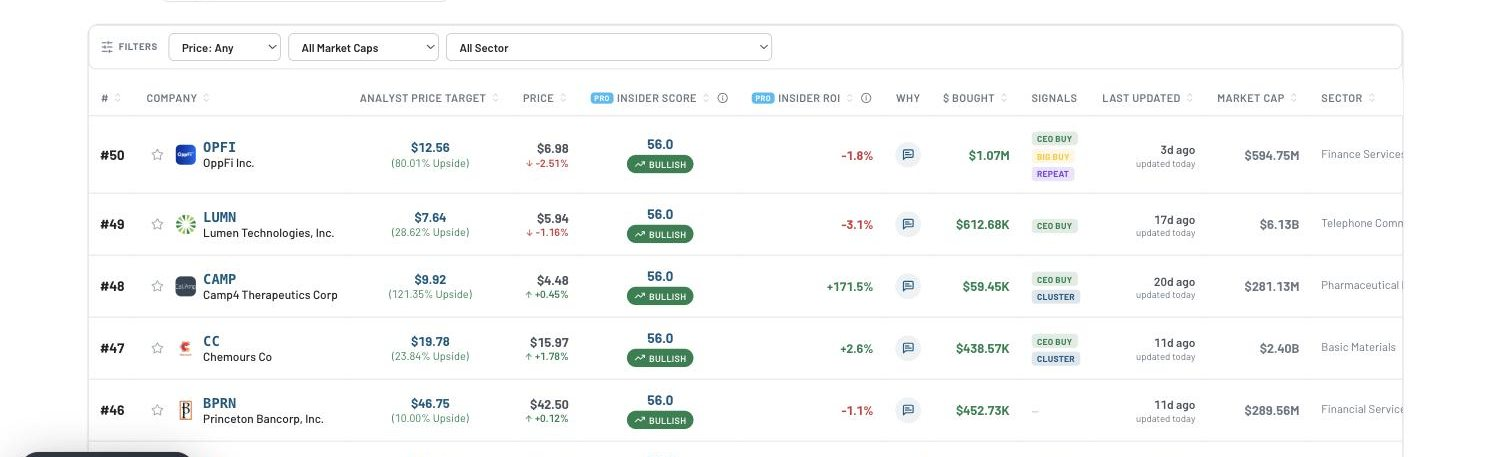
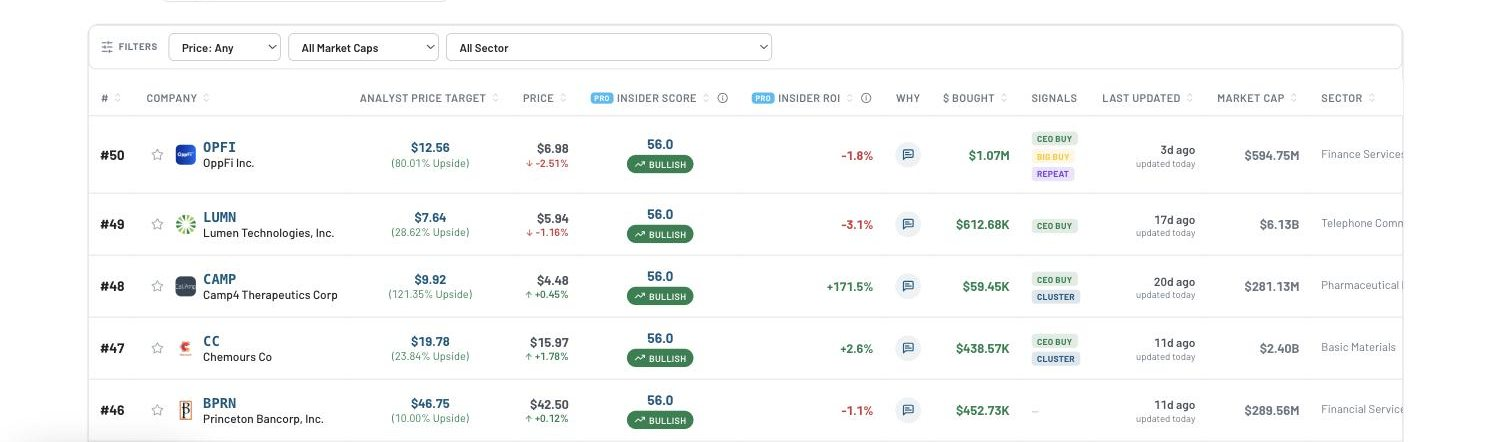
Sales draft: 4 mini product shots replace tool pills; brand-colour accents per theme; cleaner scores crop
Tools section is now Stock profiles / Insider rankings / Breaking news /
Insider profiles cards with real screenshots. CTA, hero accent line, stat
numbers and badges use the navbar brand colour (#005882 light, #20d0ff
dark). Scores bento image recropped above the locked rows.

diff --git a/frontend/app/premium-preview/page.tsx b/frontend/app/premium-preview/page.tsx
@@ -155,13 +155,10 @@ const NUMBERS = [
 ];
 
 const TOOLS = [
-  { label: "Market Heatmaps", href: "/heatmaps/market" },
-  { label: "Top Insider Scores", href: "/insiders/hot" },
-  { label: "Earnings Calendar", href: "/earnings" },
-  { label: "Watchlists", href: "/watchlist" },
-  { label: "IPO Tracker", href: "/ipos" },
-  { label: "Short Interest", href: "/short-interest" },
-  { label: "Dividends", href: "/dividends" },
+  { label: "Stock profiles", blurb: "Price, fundamentals and the full insider record on every ticker.", img: "/sales/mini-stock.jpg", href: "/companies/AAPL" },
+  { label: "Insider rankings", blurb: "Every filer ranked by buying volume and track-record accuracy.", img: "/sales/mini-rankings.jpg", href: "/insiders" },
+  { label: "Breaking news", blurb: "Top stories and market-moving coverage, updated all day.", img: "/sales/mini-news.jpg", href: "/insights" },
+  { label: "Insider profiles", blurb: "Any insider's history: win rate, best buys, sectors traded.", img: "/sales/mini-profile.jpg", href: "/insiders" },
 ];
 
 const FAQS = [
@@ -393,7 +390,11 @@ export default function PremiumPreviewPage() {
         <div className="biv-tools">
           {TOOLS.map((t) => (
             <Link key={t.label} href={t.href} className="biv-tool">
-              {t.label}
+              <div className="biv-tool-shot">
+                <img src={t.img} alt={t.label} loading="lazy" />
+              </div>
+              <h3>{t.label}</h3>
+              <p>{t.blurb}</p>
             </Link>
           ))}
         </div>
@@ -435,6 +436,10 @@ const CSS = `
   --ink: #F5F7FA; --dim: #9DB0C7; --faint: #5D7189;
   --bg: #0A1220; --bg2: #0E1A2E; --line: rgba(157,176,199,0.14);
   --green: #3E9B5F; --green-hi: #4CC38A;
+  /* Site brand accent — the navbar colour, per theme (globals.css tokens:
+     light --brand-surface #005882, dark --accent #20d0ff). Used for the
+     primary CTA, the hero's final line and the big stat numbers. */
+  --brand: #20d0ff; --brand-ink: #04141c;
   background:
     radial-gradient(1000px 600px at 80% -10%, rgba(62,155,95,0.14), transparent 60%),
     radial-gradient(900px 500px at 10% 30%, rgba(30,64,120,0.25), transparent 60%),
@@ -451,8 +456,8 @@ const CSS = `
   text-transform: uppercase; letter-spacing: -0.015em; line-height: 0.98;
   color: var(--ink); margin: 0;
 }
-.biv-accent { color: var(--green-hi); }
-.biv-accent-text { color: var(--green-hi) !important; }
+.biv-accent { color: var(--brand); }
+.biv-accent-text { color: var(--brand) !important; }
 .biv-dim { color: var(--faint); }
 
 /* hero */
@@ -466,7 +471,7 @@ const CSS = `
   display: inline-block; text-decoration: none; border-radius: 10px;
   font-weight: 700; font-size: 15px; padding: 13px 22px; transition: filter .15s, background .15s;
 }
-.biv-btn-solid { background: var(--green); color: #06131f; }
+.biv-btn-solid { background: var(--brand); color: var(--brand-ink); }
 .biv-btn-solid:hover { filter: brightness(1.1); }
 .biv-btn-ghost { border: 1px solid rgba(157,176,199,0.4); color: var(--ink); }
 .biv-btn-ghost:hover { background: rgba(157,176,199,0.1); }
@@ -604,7 +609,7 @@ const CSS = `
 .biv-mcard-person .biv-mcard-foot span { color: rgba(245,247,250,0.72); }
 .biv-mstat {
   font-family: var(--font-heading), sans-serif; font-weight: 900; font-size: 44px;
-  color: var(--green-hi); letter-spacing: -0.02em;
+  color: var(--brand); letter-spacing: -0.02em;
 }
 .biv-mcap { font-size: 13px; color: var(--dim); line-height: 1.5; margin-top: 6px; }
 
@@ -617,7 +622,7 @@ const CSS = `
 .biv-plan-hot { border-color: rgba(76,195,138,0.55); box-shadow: 0 0 0 1px rgba(76,195,138,0.35), 0 24px 60px rgba(0,0,0,0.35); }
 .biv-plan-badge {
   position: absolute; top: -12px; left: 50%; transform: translateX(-50%);
-  background: var(--green); color: #06131f; font-size: 11.5px; font-weight: 800;
+  background: var(--brand); color: var(--brand-ink); font-size: 11.5px; font-weight: 800;
   letter-spacing: 1px; text-transform: uppercase; border-radius: 999px; padding: 5px 14px;
 }
 .biv-plan h3 { margin: 0; font-size: 18px; font-weight: 700; color: var(--dim); }
@@ -631,18 +636,22 @@ const CSS = `
 /* numbers */
 .biv-numbers { display: grid; grid-template-columns: repeat(4, 1fr); gap: 18px; margin-top: 40px; }
 .biv-num { background: var(--bg2); border: 1px solid var(--line); border-radius: 16px; padding: 26px 22px; }
-.biv-num-big { font-family: var(--font-heading), sans-serif; font-weight: 900; font-size: clamp(34px, 3.4vw, 48px); color: var(--green-hi); letter-spacing: -0.02em; }
+.biv-num-big { font-family: var(--font-heading), sans-serif; font-weight: 900; font-size: clamp(34px, 3.4vw, 48px); color: var(--brand); letter-spacing: -0.02em; }
 .biv-num-cap { font-size: 13.5px; color: var(--dim); line-height: 1.55; margin-top: 10px; }
 .biv-fine.biv-center { text-align: center; margin-top: 22px; }
 
-/* tools */
-.biv-tools { display: flex; flex-wrap: wrap; gap: 12px; justify-content: center; margin-top: 34px; }
+/* tools — four mini product shots */
+.biv-tools { display: grid; grid-template-columns: repeat(4, 1fr); gap: 18px; margin-top: 40px; }
 .biv-tool {
-  border: 1px solid var(--line); border-radius: 999px; padding: 11px 20px;
-  color: var(--ink); text-decoration: none; font-size: 14.5px; font-weight: 600;
-  background: rgba(14,26,46,0.6); transition: border-color .15s, background .15s;
+  border: 1px solid var(--line); border-radius: 16px; padding: 0 0 18px;
+  color: var(--ink); text-decoration: none; background: var(--bg2);
+  overflow: hidden; transition: border-color .15s, transform .15s;
 }
-.biv-tool:hover { border-color: rgba(76,195,138,0.5); background: rgba(76,195,138,0.08); }
+.biv-tool:hover { border-color: var(--brand); transform: translateY(-2px); }
+.biv-tool-shot { height: 150px; overflow: hidden; border-bottom: 1px solid var(--line); background: #fff; }
+.biv-tool-shot img { width: 100%; display: block; object-fit: cover; object-position: top left; }
+.biv-tool h3 { font-size: 16px; font-weight: 700; margin: 15px 16px 5px; }
+.biv-tool p { font-size: 13px; line-height: 1.5; color: var(--dim); margin: 0 16px; }
 
 /* faq */
 .biv-faq { max-width: 760px; margin: 36px auto 0; }
@@ -669,17 +678,22 @@ const CSS = `
     radial-gradient(900px 500px at 10% 30%, rgba(30,64,120,0.08), transparent 60%),
     var(--bg);
 }
-:root[data-theme="light"] .biv-accent, :root[data-theme="light"] .biv-accent-text { color: var(--green) !important; }
+:root[data-theme="light"] .biv { --brand: #005882; --brand-ink: #FFFFFF; }
 :root[data-theme="light"] .biv-btn-ghost { border-color: rgba(14,31,53,0.3); }
 :root[data-theme="light"] .biv-btn-ghost:hover { background: rgba(14,31,53,0.06); }
 :root[data-theme="light"] .biv-firms span { color: rgba(14,31,53,0.72); }
 :root[data-theme="light"] .biv-hero-art img { box-shadow: 0 30px 70px rgba(14,31,53,0.28); }
-:root[data-theme="light"] .biv-mstat, :root[data-theme="light"] .biv-num-big { color: var(--green); }
-:root[data-theme="light"] .biv-plus { background: rgba(62,155,95,0.12); color: var(--green); }
+:root[data-theme="light"] .biv-mstat { color: var(--brand); }
+:root[data-theme="light"] .biv-plus { background: rgba(0,88,130,0.10); color: var(--brand); }
 :root[data-theme="light"] .biv-tool { background: #FFFFFF; }
-:root[data-theme="light"] .biv-plan-hot { box-shadow: 0 0 0 1px rgba(62,155,95,0.35), 0 24px 50px rgba(14,31,53,0.12); }
-:root[data-theme="light"] .biv-faq summary span { color: var(--green); }
+:root[data-theme="light"] .biv-plan-hot { box-shadow: 0 0 0 1px rgba(0,88,130,0.3), 0 24px 50px rgba(14,31,53,0.12); }
+:root[data-theme="light"] .biv-faq summary span { color: var(--brand); }
 :root[data-theme="light"] .biv-plan li::before { color: var(--green); }
+:root[data-theme="light"] .biv-card:hover { border-color: rgba(0,88,130,0.45); }
+:root[data-theme="light"] .biv-mspark { color: rgba(0,88,130,0.35); }
+:root[data-theme="light"] .biv-mcard-stat {
+  background: radial-gradient(220px 180px at 85% 0%, rgba(0,88,130,0.08), transparent 70%), var(--bg2);
+}
 
 /* responsive */
 @media (max-width: 960px) {
@@ -691,7 +705,11 @@ const CSS = `
   .biv-bento { grid-template-columns: 1fr; }
   .biv-card, .biv-card-wide { grid-column: span 1; }
   .biv-plans, .biv-numbers { grid-template-columns: 1fr; }
+  .biv-tools { grid-template-columns: repeat(2, 1fr); }
   .biv-plan-hot { order: -1; }
+}
+@media (max-width: 560px) {
+  .biv-tools { grid-template-columns: 1fr; }
 }
 @media (max-width: 640px) {
   .biv section { padding: 44px 14px; }
